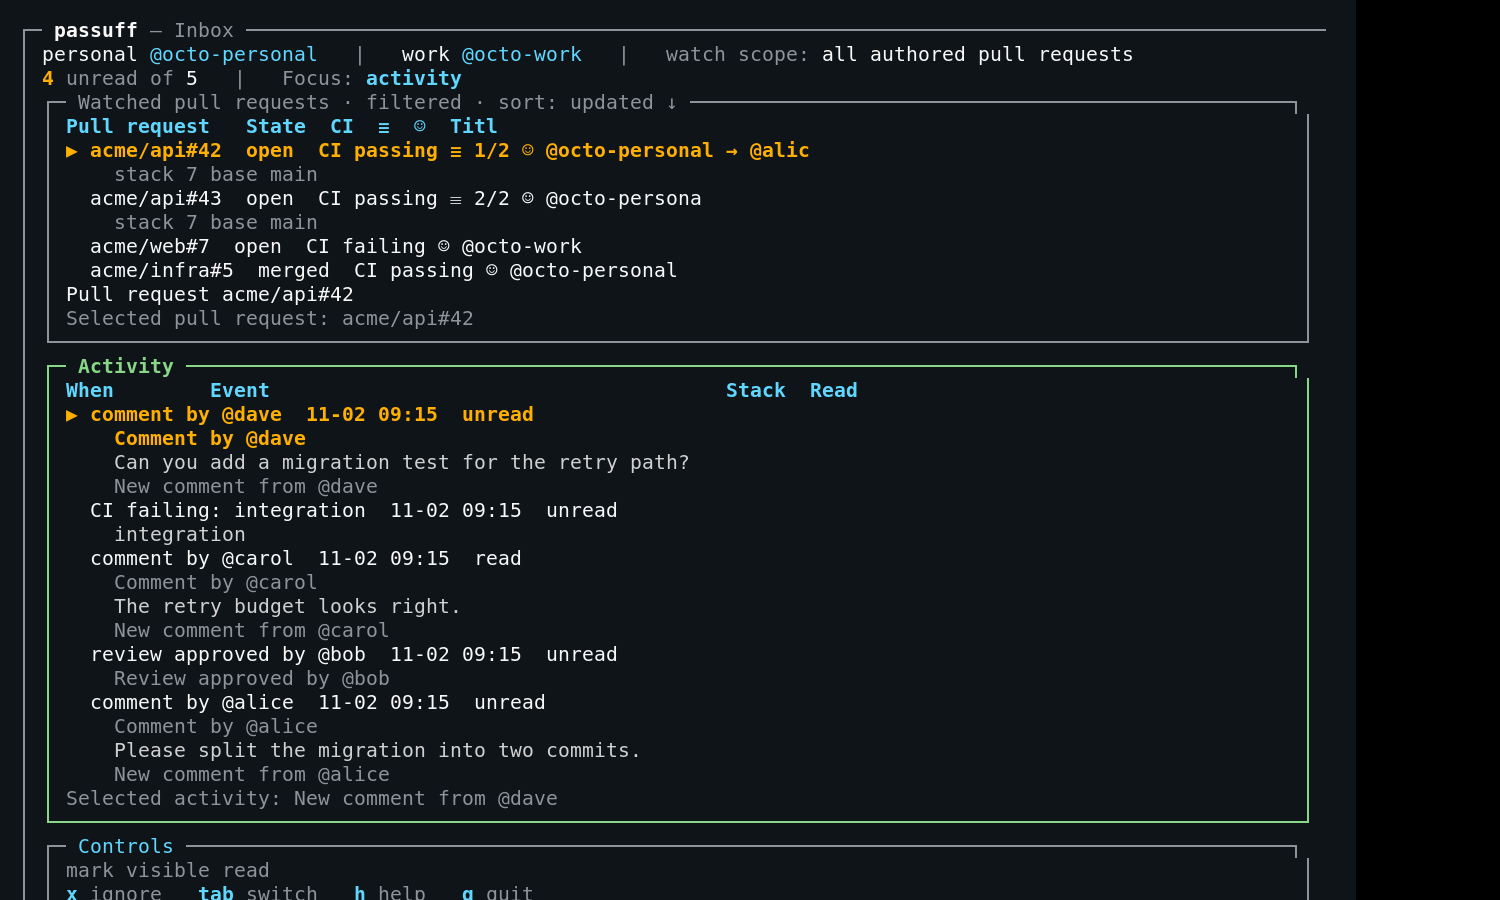
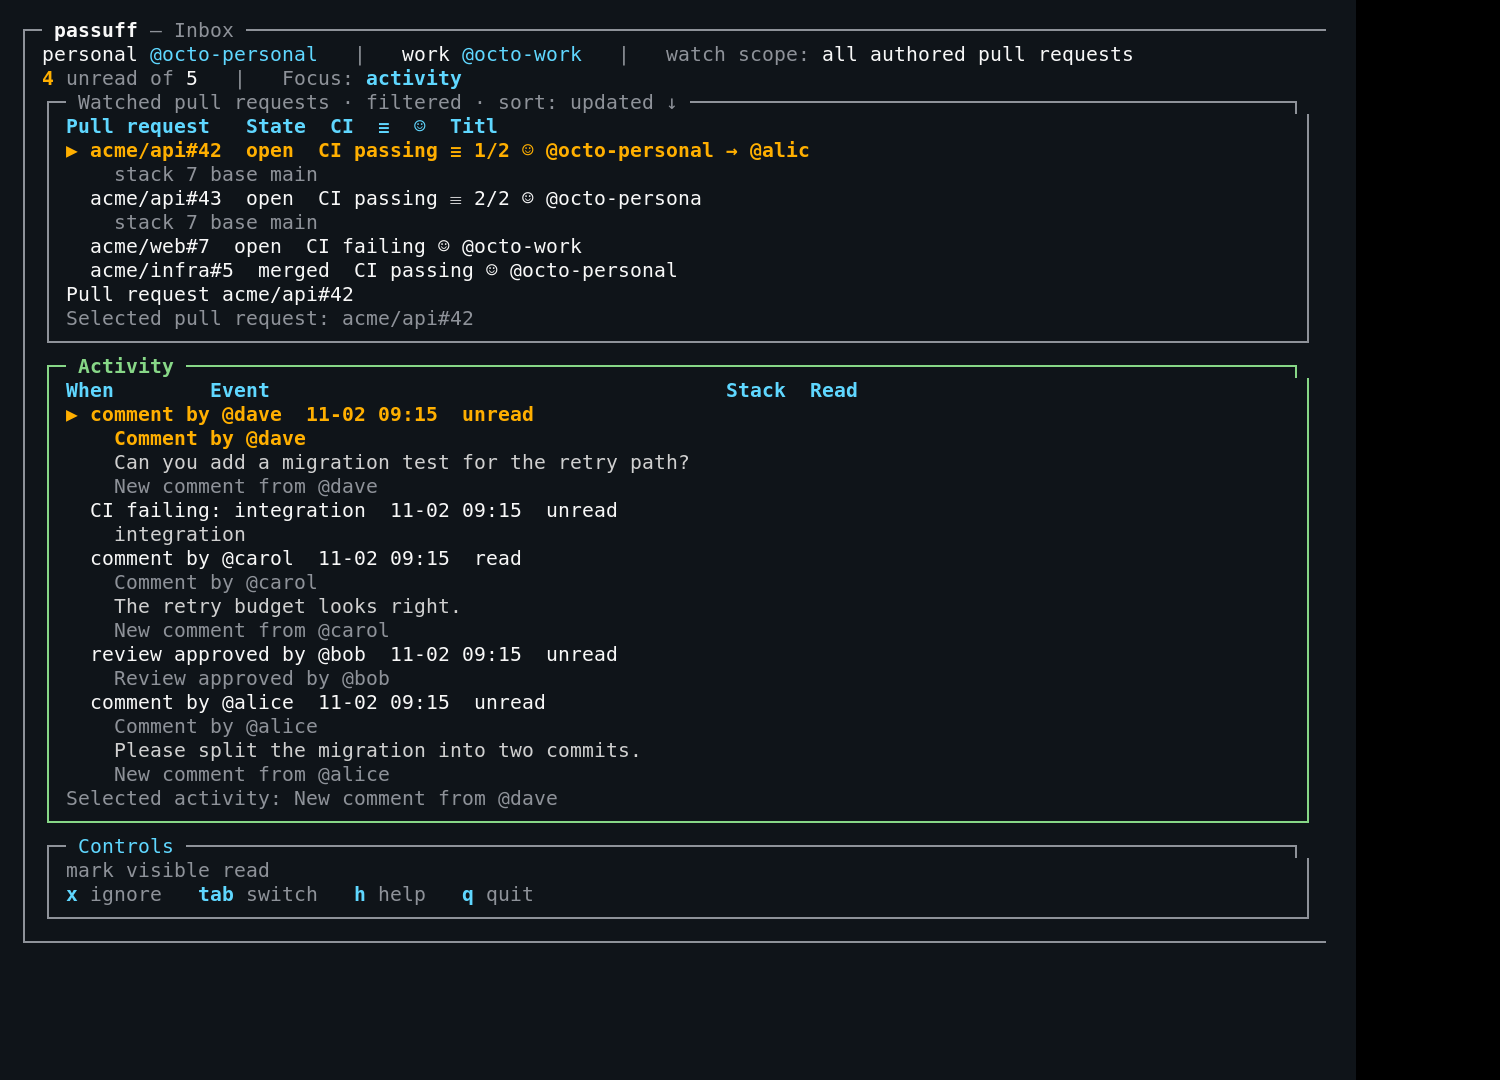
Add real TUI screenshots and reference comparisons
Batch: visual-evidence — Alacritty captures of the main inbox, activity and PR detail, settings, save prompt, help, and scope picker, plus side-by-side comparisons with the original passuff frames.

Changed region(s): [[0.0307, 0.0, 0.8587, 0.9022], [0.0307, 0.9333, 0.368, 1.0], [0.4293, 0.0311, 0.7667, 0.0622]]

diff --git a/givn/changes/restore-tui-styling/evidence/screens/README.md b/givn/changes/restore-tui-styling/evidence/screens/README.md
@@ -1,0 +1,40 @@
+# Screen evidence
+
+Real captures of the rebuilt terminal inbox and side-by-side comparisons with
+the original passuff recording.
+
+## Reference (original `passuff.gif`)
+
+- `../reference/main-inbox.png` — the main inbox.
+- `../reference/activity-selection.png` — the selected activity row.
+- `../reference/settings-overlay.png` — the settings overlay.
+
+## Rebuilt (Alacritty, implemented TUI)
+
+Captured from `passuff-tui` in Alacritty 110 columns by 52 lines at 1500x1080,
+DejaVu Sans Mono, with a representative two-account inbox.
+
+- `real/main-inbox.png` — the main inbox.
+- `real/main-selected.png` — the watched pane focused on the selected PR.
+- `real/activity-detail.png` — the activity detail overlay.
+- `real/pr-detail.png` — the pull request detail overlay.
+- `real/settings-overlay.png` — the settings overlay.
+- `real/save-prompt.png` — the save-on-quit prompt.
+- `real/help-overlay.png` — the help overlay.
+- `real/scope-picker.png` — the watch-scope picker.
+
+## Comparisons
+
+- `comparisons/main-inbox-comparison.png` — original main inbox left, rebuilt
+  main inbox right.
+- `comparisons/activity-selection-comparison.png` — original activity
+  selection left, rebuilt selected-PR view right.
+- `comparisons/settings-overlay-comparison.png` — original settings overlay
+  left, rebuilt settings overlay right.
+
+The original and rebuilt captures use different sample data. The comparison is
+for composition, palette, focus, selection, table headers, and the overlay
+frames; it is not a pixel diff.
+
+The rebuilt main capture is also the durable design reference at
+`docs/design/passuff-tui-alacritty.png`.
